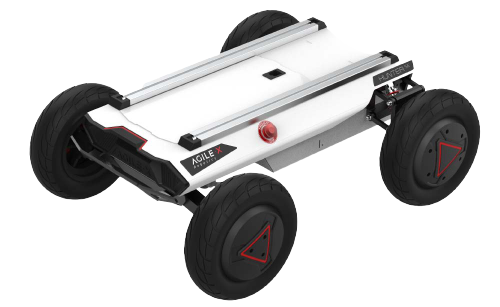
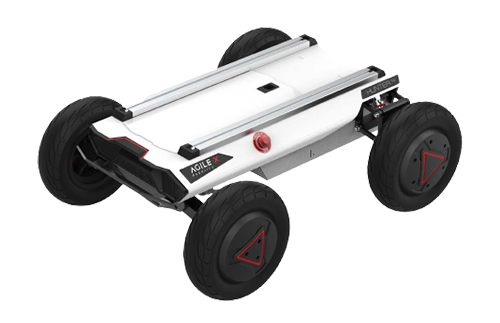
Fix missing agx platform images

Changed region(s): [[0.06, 0.0293, 0.96, 0.9967], [0.81, 0.5863, 0.84, 0.6156], [0.63, 0.4104, 0.66, 0.4397]]

diff --git a/docs/index.html b/docs/index.html
@@ -115,7 +115,7 @@
             <div class="agilex-box2">
                 <figure>
                     <a href="https://docs.trossenrobotics.com/agilex_bunker_docs" class="docs-link" target="_blank">
-                        <img src="https://trossenrobotics.com/Shared/Support%20Page/agilex-bunker.png"
+                        <img src="_static/_images/agilex_bunker.png"
                             class="agilex-link-img" alt="Link to AgileX BUNKER documentation">
                     </a>
 
@@ -124,7 +124,7 @@
 
                 <figure>
                     <a href="https://docs.trossenrobotics.com/agilex_bunker_pro_docs" class="docs-link" target="_blank">
-                        <img src="https://trossenrobotics.com/Shared/Support%20Page/agilex-bunker-pro-shadow2.png"
+                        <img src="_static/_images/agilex_bunker_pro.png"
                             class="agilex-link-img" alt="Link to AgileX BUNKER PRO documentation">
                     </a>
 
@@ -134,7 +134,7 @@
                 <figure>
                     <a href="https://docs.trossenrobotics.com/agilex_bunker_mini_docs" class="docs-link"
                         target="_blank">
-                        <img src="https://trossenrobotics.com/Shared/Support%20Page/agilex-bynker-mini.png"
+                        <img src="_static/_images/agilex_bunker_mini.png"
                             class="agilex-link-img" alt="Link to AgileX BUNKER MINI documentation">
                     </a>
 
@@ -145,7 +145,7 @@
             <div class="agilex-box3">
                 <figure id="tablet-edit3">
                     <a href="https://docs.trossenrobotics.com/agilex_scout_20_docs" class="docs-link" target="_blank">
-                        <img src="https://trossenrobotics.com/Shared/Support%20Page/agilex-scout-2.png"
+                        <img src="_static/_images/agilex_scout_20.png"
                             class="agilex-link-img" alt="AgileX SCOUT 2.0">
                     </a>
 
@@ -154,7 +154,7 @@
 
                 <figure>
                     <a href="https://docs.trossenrobotics.com/agilex_scout_mini_docs" class="docs-link" target="_blank">
-                        <img src="https://trossenrobotics.com/Shared/Support%20Page/agilex-scout-mini.png"
+                        <img src="_static/_images/agilex_scout_mini.png"
                             class="agilex-link-img" alt="Link to AgileX SCOUT MINI documentation">
                     </a>
 
@@ -163,7 +163,7 @@
 
                 <figure>
                     <a href="https://docs.trossenrobotics.com/agilex_tracer_docs" class="docs-link" target="_blank">
-                        <img src="https://trossenrobotics.com/Shared/Support%20Page/agilex-tracer.png"
+                        <img src="_static/_images/agilex_tracer.png"
                             class="agilex-link-img" alt="Link to AgileX TRACER documentation">
                     </a>
 
@@ -174,7 +174,7 @@
             <div class="agilex-box4">
                 <figure>
                     <a href="https://docs.trossenrobotics.com/agilex_hunter_20_docs" class="docs-link" target="_blank">
-                        <img src="https://trossenrobotics.com/Shared/Support%20Page/agilex-hunter-2.png"
+                        <img src="_static/_images/agilex_hunter_20.png"
                             class="agilex-link-img" alt="AgileX HUNTER 2.0">
                     </a>
 
@@ -183,7 +183,7 @@
 
                 <figure>
                     <a href="https://docs.trossenrobotics.com/agilex_hunter_se_docs" class="docs-link" target="_blank">
-                        <img src="https://trossenrobotics.com/Shared/Support%20Page/agilex-hunter-se.png"
+                        <img src="_static/_images/agilex_hunter_se.png"
                             class="agilex-link-img" alt="Link to AgileX HUNTER SE documentation">
                     </a>
 
@@ -192,7 +192,7 @@
 
                 <figure id="tablet-edits7">
                     <a href="https://docs.trossenrobotics.com/agilex_limo_docs" class="docs-link" target="_blank">
-                        <img src="https://trossenrobotics.com/Shared/Support%20Page/agilex-limo.png"
+                        <img src="_static/_images/agilex_limo.png"
                             class="agilex-link-img" alt="Link to AgileX LIMO documentation">
                     </a>
 
@@ -204,7 +204,7 @@
             <div class="tablet-box2">
                 <figure>
                     <a href="https://docs.trossenrobotics.com/agilex_bunker_docs" class="docs-link" target="_blank">
-                        <img src="https://trossenrobotics.com/Shared/Support%20Page/agilex-bunker.png"
+                        <img src="_static/_images/agilex_bunker.png"
                             class="agilex-link-img" alt="Link to AgileX BUNKER documentation">
                     </a>
 
@@ -213,7 +213,7 @@
 
                 <figure>
                     <a href="https://docs.trossenrobotics.com/agilex_bunker_pro_docs" class="docs-link" target="_blank">
-                        <img src="https://trossenrobotics.com/Shared/Support%20Page/agilex-bunker-pro-shadow2.png"
+                        <img src="_static/_images/agilex_bunker_pro.png"
                             class="agilex-link-img" alt="Link to AgileX BUNKER PRO documentation">
                     </a>
 
@@ -225,7 +225,7 @@
                 <figure>
                     <a href="https://docs.trossenrobotics.com/agilex_bunker_mini_docs" class="docs-link"
                         target="_blank">
-                        <img src="https://trossenrobotics.com/Shared/Support%20Page/agilex-bynker-mini.png"
+                        <img src="_static/_images/agilex_bunker_mini.png"
                             class="agilex-link-img" alt="Link to AgileX BUNKER MINI documentation">
                     </a>
 
@@ -234,7 +234,7 @@
 
                 <figure id="tablet-edit3">
                     <a href="https://docs.trossenrobotics.com/agilex_scout_20_docs" class="docs-link" target="_blank">
-                        <img src="https://trossenrobotics.com/Shared/Support%20Page/agilex-scout-2.png"
+                        <img src="_static/_images/agilex_scout_20.png"
                             class="agilex-link-img" alt="AgileX SCOUT 2.0">
                     </a>
 
@@ -245,7 +245,7 @@
             <div class="tablet-box4">
                 <figure>
                     <a href="https://docs.trossenrobotics.com/agilex_scout_mini_docs" class="docs-link" target="_blank">
-                        <img src="https://trossenrobotics.com/Shared/Support%20Page/agilex-scout-mini.png"
+                        <img src="_static/_images/agilex_scout_mini.png"
                             class="agilex-link-img" alt="Link to AgileX SCOUT MINI documentation">
                     </a>
 
@@ -254,7 +254,7 @@
 
                 <figure>
                     <a href="https://docs.trossenrobotics.com/agilex_tracer_docs" class="docs-link" target="_blank">
-                        <img src="https://trossenrobotics.com/Shared/Support%20Page/agilex-tracer.png"
+                        <img src="_static/_images/agilex_tracer.png"
                             class="agilex-link-img" alt="Link to AgileX TRACER documentation">
                     </a>
 
@@ -265,7 +265,7 @@
             <div class="tablet-box5">
                 <figure>
                     <a href="https://docs.trossenrobotics.com/agilex_hunter_20_docs" class="docs-link" target="_blank">
-                        <img src="https://trossenrobotics.com/Shared/Support%20Page/agilex-hunter-2.png"
+                        <img src="_static/_images/agilex_hunter_20.png"
                             class="agilex-link-img" alt="AgileX HUNTER 2.0">
                     </a>
 
@@ -274,7 +274,7 @@
 
                 <figure>
                     <a href="https://docs.trossenrobotics.com/agilex_hunter_se_docs" class="docs-link" target="_blank">
-                        <img src="https://trossenrobotics.com/Shared/Support%20Page/agilex-hunter-se.png"
+                        <img src="_static/_images/agilex_hunter_se.png"
                             class="agilex-link-img" alt="Link to AgileX HUNTER SE documentation">
                     </a>
 
@@ -285,7 +285,7 @@
             <div class="tablet-box6">
                 <figure id="tablet-edits7">
                     <a href="https://docs.trossenrobotics.com/agilex_limo_docs" class="docs-link" target="_blank">
-                        <img src="https://trossenrobotics.com/Shared/Support%20Page/agilex-limo.png"
+                        <img src="_static/_images/agilex_limo.png"
                             class="agilex-link-img" alt="Link to AgileX LIMO documentation">
                     </a>
 
